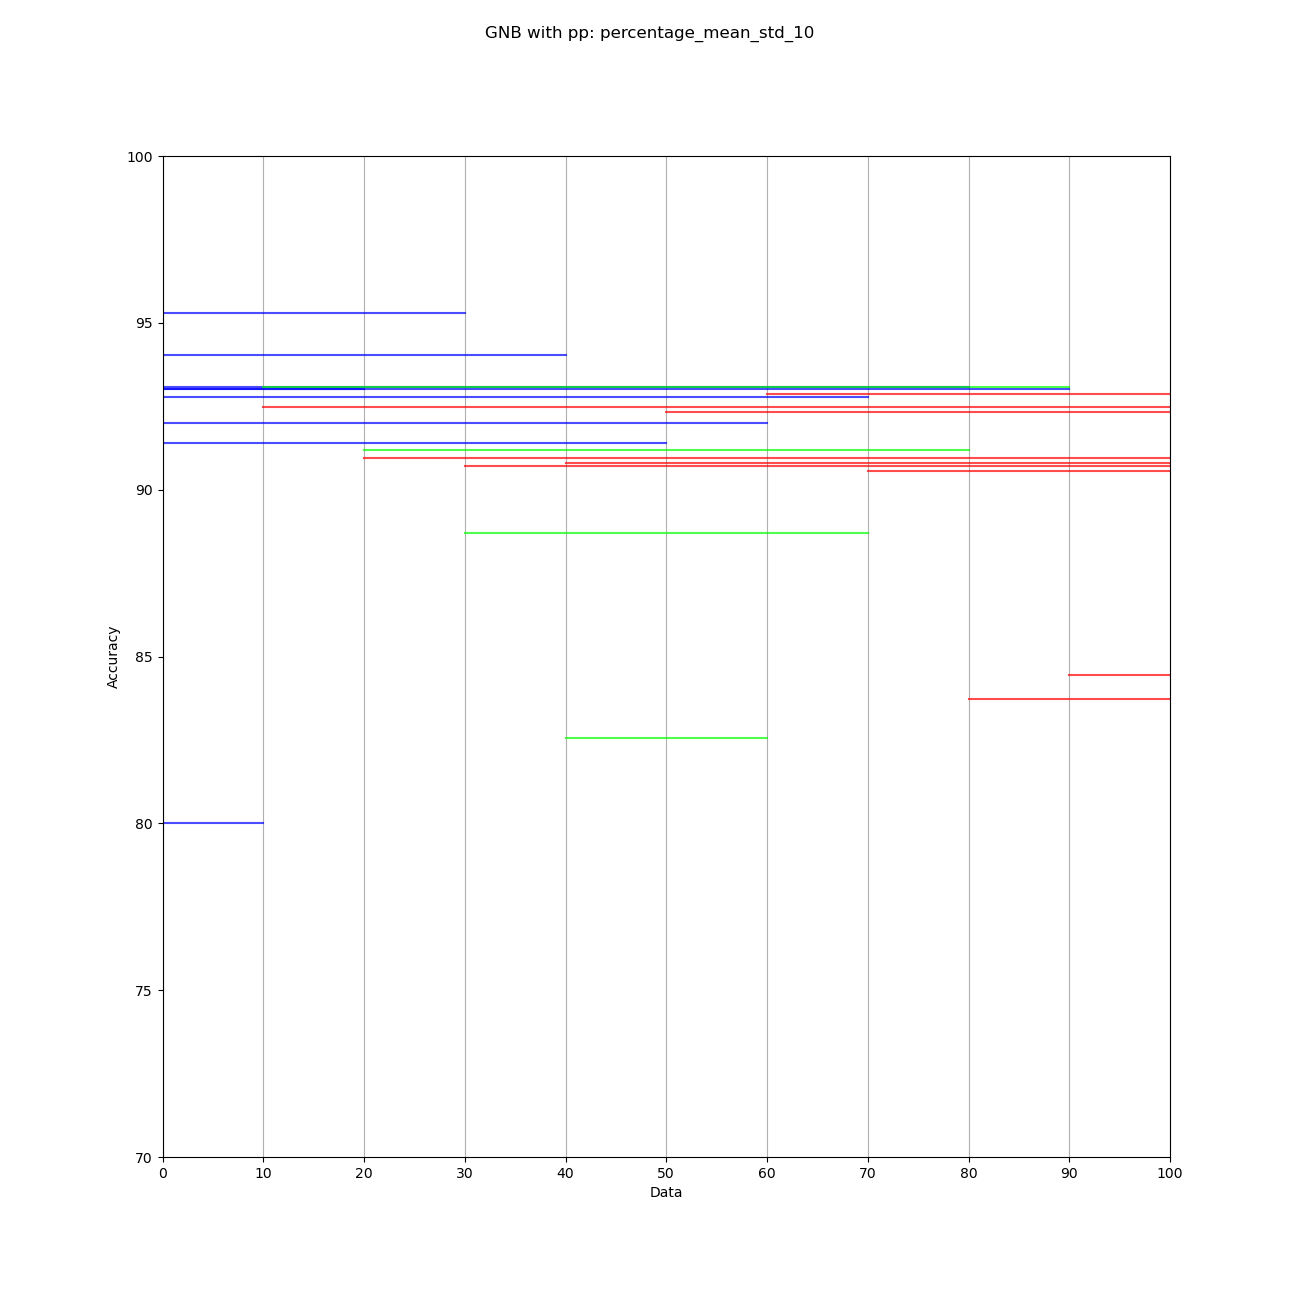
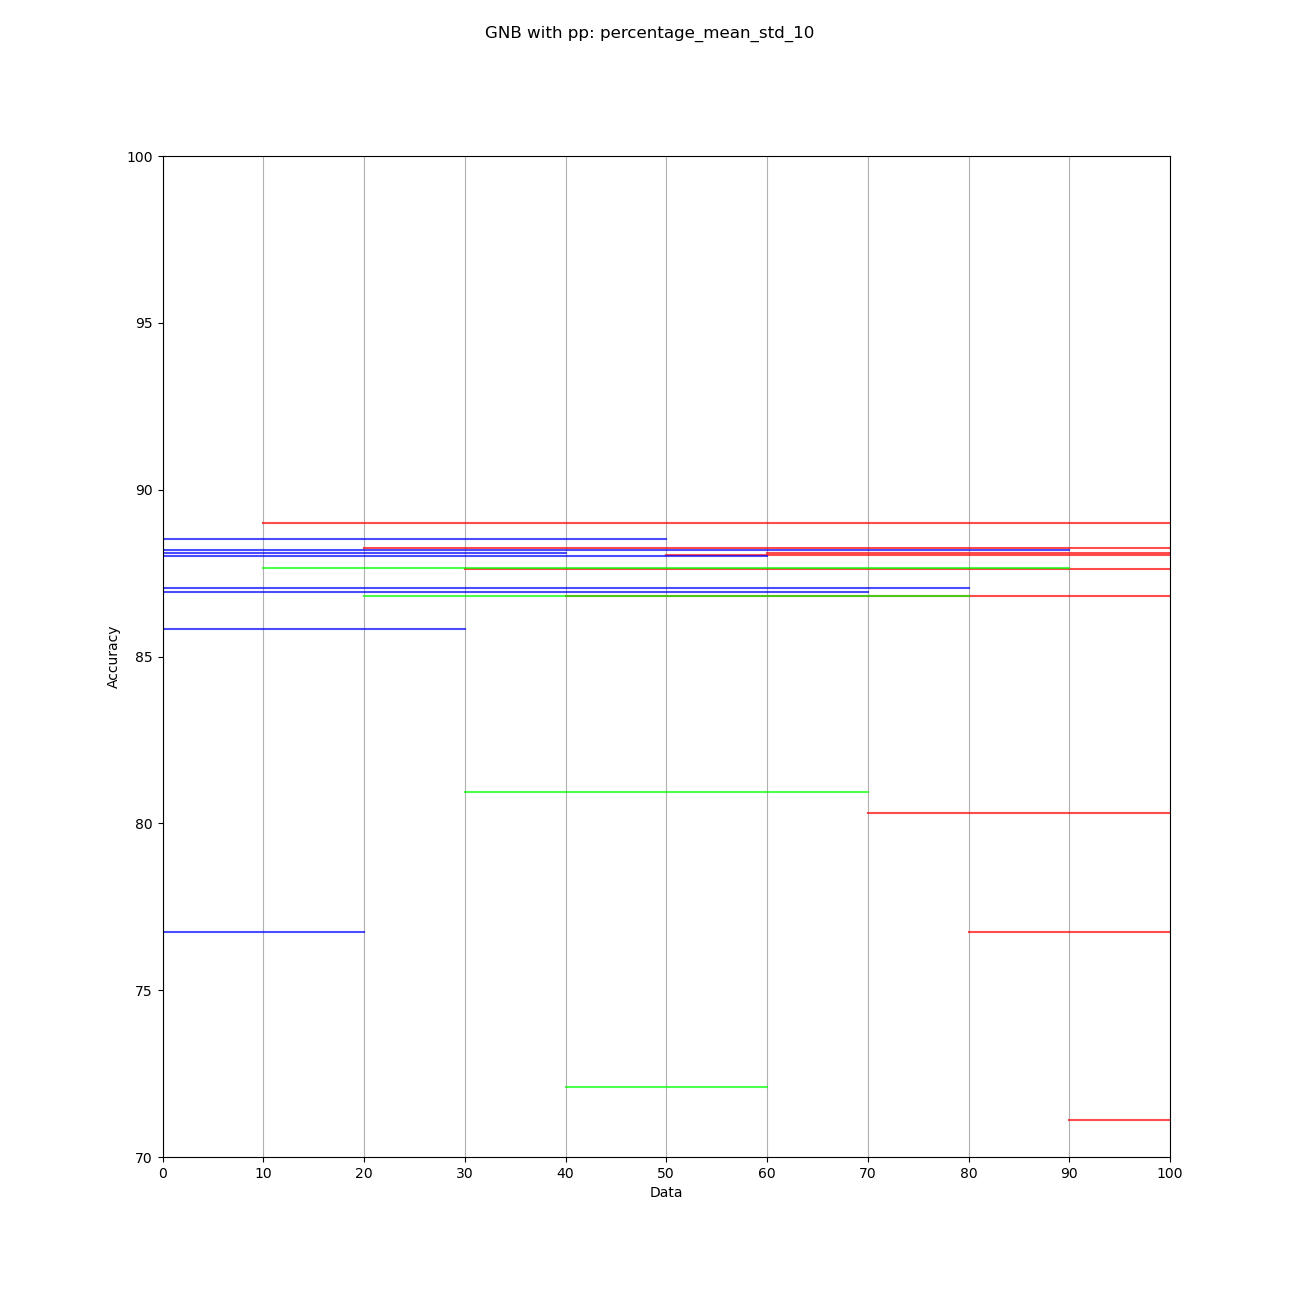
doc, fix gnb jumpcore plots

Changed region(s): [[0.1231, 0.2769, 0.8923, 0.3692], [0.1231, 0.4, 0.8923, 0.4615]]

diff --git a/svc.py b/svc.py
@@ -27,11 +27,14 @@ svc_logger = logging.getLogger("SVC")
 
 def prediction_and_evaluate(classifier, testing_sample: DataFrame, test_targets: DataFrame):
     """
-     Predict and evaluate a data set
 
-    :param classifier: classifier built with training data
-    :param testing_sample: testing data (X)
-    :param test_targets: testing target (y)
+    Predict and evaluate a data set
+
+    Parameters
+    ----------
+    classifier: classifier built with training data
+    testing_sample: DataFrame - testing data (X)
+    test_targets: DataFrame - testing target (y)
 
     """
     predicted = classifier.predict(testing_sample)
@@ -48,13 +51,17 @@ def prediction_and_evaluate(classifier, testing_sample: DataFrame, test_targets:
 def get_samples_features(data: DataFrame, start_column: str, end_column: str):
     """
 
-    preprocessed the data by selecting a feature range and lint the numbers to float.
+     preprocessed the data by selecting a feature range and lint the numbers to float.
 
-    :param data: data set
-    :param start_column: start feature
-    :param end_column: end feature
+     Parameters
+     ----------
+     data: DataFrame - data set
+     start_column: str - start feature
+     end_column: str - end feature
 
-    """
+     :return: X: X of training or testing
+
+     """
     X: DataFrame = data.loc[:, start_column:end_column]
     X.astype(dtype='float64')
     return X
@@ -63,11 +70,14 @@ def get_samples_features(data: DataFrame, start_column: str, end_column: str):
 def read_processed_data(filename: str):
     """
 
-    read and substite "," with "." to avoid error by numbers
+     read dataset from path and substitute "," with "." to avoid error by numbers
 
-    :param filename: path of the dataset
+     Parameters
+     ----------
+     filename: str - the relative path to the dataset
 
-    """
+     :return: processed_data: Dataframe
+     """
     processed_data = pd.read_csv(filename)
     logger.info("read data set:" + filename)
     for column in processed_data.columns:
@@ -79,19 +89,32 @@ def read_processed_data(filename: str):
 
 
 def get_targets(data: DataFrame):
+    """
+
+     get targets of a dataset
+
+     Parameters
+     ----------
+     data: DataFrame - dataset
+
+     :return: data['Sprungtyp']: targets(y) of a dataset
+     """
     targets = set(data['Sprungtyp'])
     return data['Sprungtyp']
 
 
-def get_jumptypes_set(data: DataFrame):
-    return set(data['Sprungtyp'])
-
-
-def get_jumps_by_type(data: DataFrame, type: str):
-    return data[type]
-
-
 def get_train_test_data(datasets: list):
+    """
+
+    get targets of a dataset
+
+    Parameters
+    ----------
+    datasets: list - list of datasets in path form but without _train.csv or _test.csv
+
+    :return: train, test: return the dataframes of train and test data
+
+    """
     next = 1
     train = read_processed_data(datasets[0] + "_train.csv")
     test = read_processed_data(datasets[0] + "_test.csv")
@@ -108,14 +131,15 @@ def get_train_test_data(datasets: list):
 
 def svc_classify(datasets: list, feature_start: str, feature_end: str, drops_keywords: list, reverse_drop: bool):
     """
+    Classify with Support Vector Machine
 
-    Cassify with Support Vector Machine
-
-    :param datasets: path of the data set
-    :param feature_start: start feature
-    :param feature_end: end feature
-    :param drops_keywords: the features will be drop if it has the keywords in this list.
-    :param reverse_drop: Set to True to drop the features does not contains the keywords.
+    Parameters
+    ----------
+    datasets: list - list of datasets in path form but without _train.csv or _test.csv
+    feature_start: str - start feature
+    feature_end: str - end feature
+    drops_keywords: list - the features will be drop if it has the keywords in this list.
+    reverse_drop: bool - Set to True to drop the features does not contains the keywords.
 
     """
     train, test = get_train_test_data(datasets)
@@ -147,14 +171,15 @@ def svc_classify(datasets: list, feature_start: str, feature_end: str, drops_key
 
 def gnb_classify(datasets: list, feature_start: str, feature_end: str, drops_keywords: list, reverse_drop: bool):
     """
+    Classify with Gaussian Naive Bayes
 
-    Cassify with Gaussian Naive Bayes
-
-    :param datasets: path of the data set
-    :param feature_start: start feature
-    :param feature_end: end feature
-    :param drops_keywords: the features will be drop if it has the keywords in this list.
-    :param reverse_drop: Set to True to drop the features does not contains the keywords.
+    Parameters
+    ----------
+    datasets: list - list of datasets in path form but without _train.csv or _test.csv
+    feature_start: str - start feature
+    feature_end: str - end feature
+    drops_keywords: list - the features will be drop if it has the keywords in this list.
+    reverse_drop: bool - Set to True to drop the features does not contains the keywords.
 
     """
     train, test = get_train_test_data(datasets)
@@ -183,7 +208,19 @@ def gnb_classify(datasets: list, feature_start: str, feature_end: str, drops_key
     prediction_and_evaluate(gnb, get_samples_features(test, feature_start, feature_end), test_targets)
 
 
-def sample_x_test(x_test, y_test, num, cnn=False):
+def sample_x_test(x_test, y_test, num):
+    """
+    Samples data by retrieving only a certain number of each jump.
+
+    Parameters
+    ----------
+    x_test : pandas.Dataframe - can be x_test and x_train
+    y_test : pandas.Dataframe - can be y_test and y_train
+    num : int - number of each jump to retrieve
+
+    :return: sampled data Dataframe
+    """
+
     df = x_test.copy()
     df['Sprungtyp'] = y_test
     counts = df['Sprungtyp'].value_counts()
@@ -384,8 +421,24 @@ def prepare_data(data_train, data_test, pp_list):
     return X_train, y_train, X_test, y_test
 
 
-def jump_core_detection(datasets, pp_list, title, jump_length=0):
+def jump_core_detection(classifier: str, datasets, pp_list, title, jump_length=0):
+    """
+    Trains many different models with differently cut data. We cut from back to front, front to back, and from both sides
 
+    Parameters
+    ----------
+    classifier : str
+        'SVC' or 'GNB'
+    data_train : pandas.Dataframe
+        dataframe read from .csv file
+    data_test : pandas.Dataframe
+        dataframe read from .csv file
+    pp_list : list
+        a list with values from 1 to 4: [1, 2, 3, 4]. Corresponds to the blocks of preprocessed data. 1: first 9 columns, 2, 3, 4: 12 columns each
+    title : str
+        title of the plot
+    :return: dictionary with scores of all trained models
+    """
     data_train, data_test = get_train_test_data(datasets)
     scores = {}
     percentage = int(100 / jump_length)
@@ -415,7 +468,13 @@ def jump_core_detection(datasets, pp_list, title, jump_length=0):
                 indexes.append(i * jump_length + to_delete)
         data_test_copy = data_test.drop(indexes)
         X_train, y_train, X_test, y_test = prepare_data(data_train_copy, data_test_copy, pp_list)
-        clf = SVC(kernel="linear").fit(X_train, y_train)
+        if classifier == "SVC":
+            clf = SVC(kernel='linear')
+        elif classifier == "GNB":
+            clf = GaussianNB()
+        else:
+            raise RuntimeError("Invalid classifier type:" + classifier)
+        clf.fit(X_train, y_train)
         y_pred = clf.predict(X_test)
         print(f"Accuracy score:  {str(accuracy_score(y_test, y_pred).__round__(4))}")
         score = accuracy_score(y_test, y_pred).__round__(4)
@@ -458,12 +517,12 @@ def jump_core_detection(datasets, pp_list, title, jump_length=0):
 
 if __name__ == '__main__':
     drops = []
-    train = "/without_preprocessed/percentage/10/vector_percentage_mean_std_10_train.csv"
-    test = "/without_preprocessed/percentage/10/vector_AJ_percentage_mean_std_10.csv"
-    output_folder = 'plots/GNB/without_preprocessed/AJ/'
-    explain_model(train, test, "", "", [], False, output_folder, "GNB")
-    datasets = ["Sprungdaten_processed/without_preprocessed/percentage/10/vector_percentage_mean_std_10"]
-    title = 'GNB without pp: percentage_mean_std_10'
-    #jump_core_detection(datasets, [1, 2, 3, 4], title, 10)
+    #train = "/without_preprocessed/percentage/10/vector_percentage_mean_std_10_train.csv"
+    #test = "/without_preprocessed/percentage/10/vector_AJ_percentage_mean_std_10.csv"
+    #output_folder = 'plots/GNB/without_preprocessed/AJ/'
+    #explain_model(train, test, "", "", [], False, output_folder, "GNB")
+    datasets = ["Sprungdaten_processed/with_preprocessed/percentage/10/vector_percentage_mean_std_10"]
+    title = 'GNB with pp: percentage_mean_std_10'
+    jump_core_detection("GNB", datasets, [1, 2, 3, 4], title, 10)
 
 
